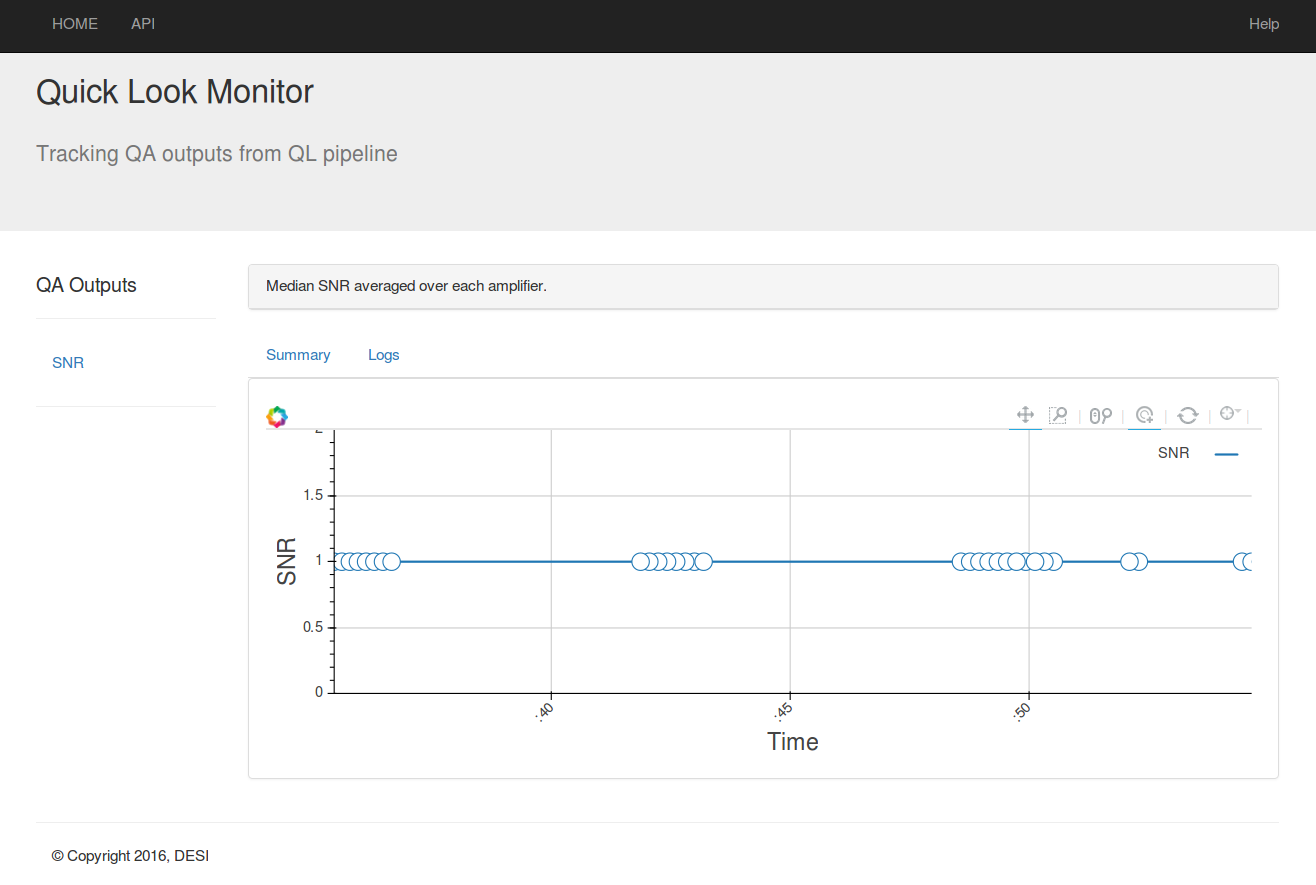
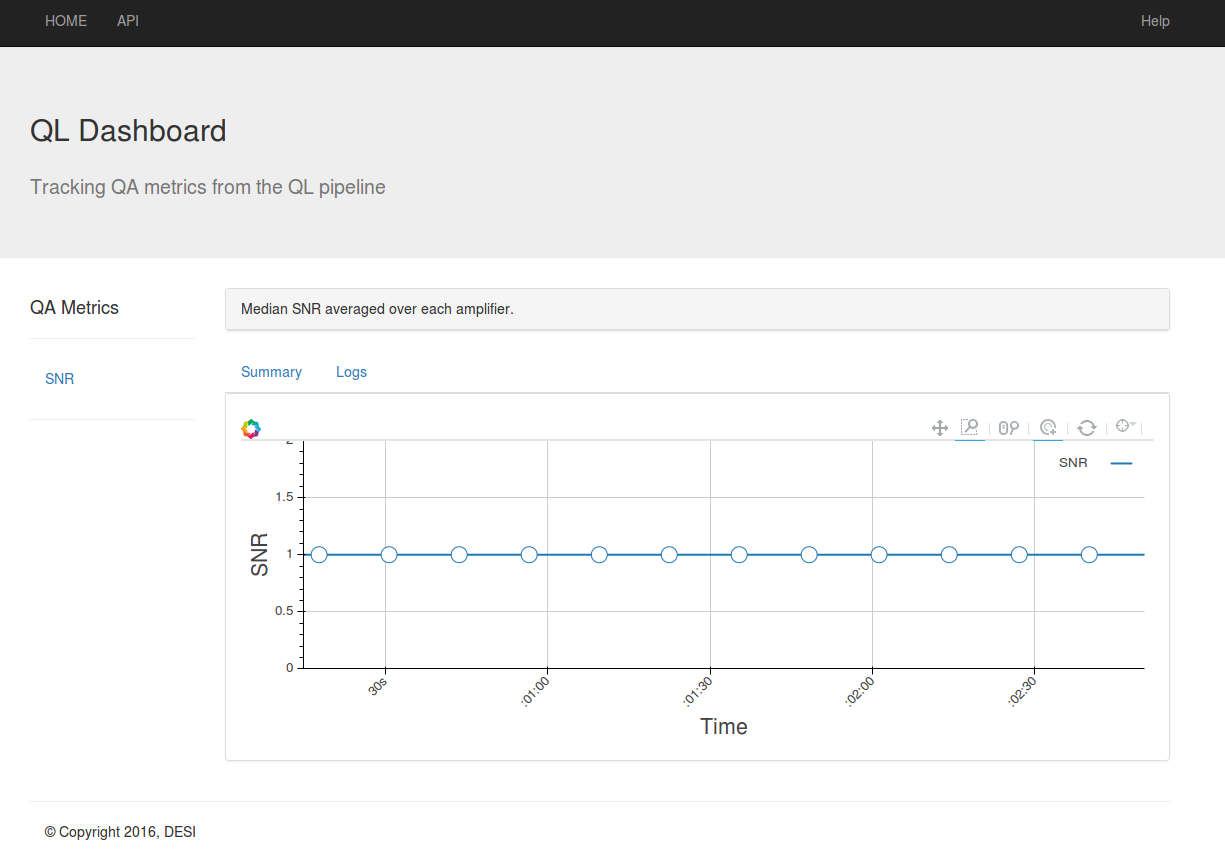
Updated documentation

diff --git a/qlf/dashboard/templates/dashboard/index.html b/qlf/dashboard/templates/dashboard/index.html
@@ -6,8 +6,8 @@
 
 <div class="jumbotron">
     <div class="container">
-        <h2>Quick Look Monitor<h4>
-        <h2><small>Tracking QA outputs from QL pipeline</small></h2>
+        <h2>QL Dashboard<h4>
+        <h2><small>Tracking QA metrics from the QL pipeline</small></h2>
     </div>
 </div>
 
@@ -16,7 +16,7 @@
     <div class="row">
         <div class="col-xs-2">
           <ul class="nav nav-pills nav-stacked">
-              <li role="presentation"><h4>QA Outputs</h4></li>
+              <li role="presentation"><h4>QA Metrics</h4></li>
               <hr>
               {% for module in object_list %}
                 <li role="presentation" >

diff --git a/docs/index.rst b/docs/index.rst
@@ -12,18 +12,19 @@ Angelo Fausti, Alisson Lanot, Luiz N. da Costa
 Introduction
 ^^^^^^^^^^^^
 
-Quick Look Framework (QLF) is designed monitor QA outputs from the DESI Quick Look pipeline and provide
+Quick Look Framework (QLF) is designed display QA metrics from the DESI Quick Look pipeline and provide
 feedback to observers about the quality of the data in real-time.
 
-In development mode, QLF runs locally emulating the Data Online System (DOS) environment to get the input files and
+In development mode, QLF runs locally and emulates the Data Online System (DOS) environment to get the input files and
 metadata required to run the QL pipeline.
 
-See the `README <https://github.com/linea-it/qlf/blob/master/README.md>`_ for instructions on how to clone the repository, install the software dependencies and start the QLF demo.
+See the `README <https://github.com/linea-it/qlf/blob/master/README.md>`_ for instructions on how to clone the repository,
+install the software dependencies and start the QLF demo.
 
 System Design
 ^^^^^^^^^^^^^
 
-The system components are shown below
+The main components of QLF are described below
 
     .. figure:: _static/qlf.png
        :name: qlf
@@ -33,22 +34,25 @@ The system components are shown below
        Figure 1. QLF system components.
 
 
- - **DOS Test Environment**: Emulates DOS enviroment for integration tests during development;
- - **DOS Monitor**: implements** the interface with DOS (or DOS test environment) to access the input files
+ - **DOS Test Environment**: Emulates DOS environment for integration tests during development;
+ - **DOS Monitor**: implements the interface with DOS (or DOS test environment) to access the input files
    and metadata required to run the QL pipeline;
  - **QLF App**: orchestrates the execution of the QL pipeline, prepare input data and configuration, launches the QL pipeline and store relevant information in the QLF database for display in the dashoard;
  - **QL pipeline**: implemented independently of the QLF, QL pipeline communicates with the QLF framework
    through the QLF API;
- - **Dashboard**: web pages for the visualization of the results.
+ - **Dashboard**: web pages for display the QA metrics.
+
+
+TODO: include description of the dataflow
 
 
 Implementation phases
 ^^^^^^^^^^^^^^^^^^^^^
 
- - **QLF v0.1**: demonstration of QLF technology stack and main concepts. In this initial version QLF produces a scalar metric (e.g. Median SNR), it stores this value and job information in the database and display the results in a web page.
- - **QLF v0.2**: first integration with QL pipeline, using simulated data and processing one ccd, still display aggregated metrics but includes a first implementation of the DOS Test Environment.
- - **QLF v0.3**: support individual and aggreatted metrics, implement single CCD display, display QL ouput logs in the dashboard
- - **QLF v0.4**: configuration and submission interface for QL
+ - **QLF v0.1**: demonstration of QLF technology stack and main concepts. In this initial version QLF produces a scalar metric (e.g. Median SNR), stores this value and job information in the database and display the result in a web page.
+ - **QLF v0.2**: improvements in the QLF interface to include configuration, monitor and control the pipeline execution
+ - **QLF v0.3**: first integration with QL pipeline, using simulated data and processing one ccd, still display aggregated metrics but includes a first implementation of the DOS Test Environment.
+ - **QLF v0.4**: support individual and aggregated metrics, implement single CCD display
  - **QLF V0.5**: ...
 
 QLF v0.1
@@ -64,7 +68,7 @@ The web dashboard uses `Django <https://www.djangoproject.com/>`_ and the `Bokeh
 QLF database
 ------------
 
-The QLF database keeps information about the QA outputs as well as the pipeline execution.
+The QLF database keeps information about the QA metrics and pipeline execution.
 
     .. figure:: _static/qlfdb.png
        :name: qlfdb
@@ -74,14 +78,14 @@ The QLF database keeps information about the QA outputs as well as the pipeline 
        Figure 2. QLF v0.1 database, showing ``Job``, ``Metric`` and associated ``Measurement`` tables.
 
 
-QA outputs are generically referred as *metrics* here, and are registered in the ``Metric`` table. A metric has ``name``, ``description``, ``condition``
+QA metrics are registered in the ``Metric`` table. A metric has ``name``, ``description``, ``condition``
 and a ``threshold`` that can be used to trigger alerts.
 
-In QLF v0.1,  this table stores just summary information (e.g. median SNR per ccd). We plan to extend the schema in QLF v0.3 to support
+In QLF v0.1,  this table stores just **summary information** (e.g. median SNR per ccd). We plan to extend the schema in QLF v0.4 to support
 individual and aggregated measurements adding the ``Spectrograph``, ``Ccd`` and ``Fiber`` tables in the schema (e.g. SNR of each fiber
-associated to a given CCD and Spetrograph as well as median SNR per CCD or Spectrograph)
+associated to a given CCD and spectrograph as well as median SNR per CCD or Spectrograph)
 
-Each execution of the pipeline is called a *job* and has ``start``, ``end`` time and a ``status``.
+Each execution of the pipeline is registered in the ``Job`` table and has ``start``, ``end`` time and a ``status``.
 
 In the current schema, each job can perform *N* measurements and each measurement is associated to a metric.
 
@@ -115,6 +119,9 @@ A typical call to the QLF API looks like:
     >>> response.status_code
     201
 
+the QLF daemon is implemented in `bin/qlf.py <https://github.com/linea-it/qlf/blob/master/qlf/bin/qlf.py>`_. In v0.1 it
+sends a constant *SNR=1.0* each 10s to the QLF API.
+
 .. note::
    In development mode the API can be reached at http://localhost:8000/dashboard/api with user=nobody and password=nobody
 
@@ -122,18 +129,18 @@ A typical call to the QLF API looks like:
 Visualization
 -------------
 
-In QLF v0.1, we integrated Django and the Bokeh python library, and demonstrate this integration with a dashboard
-that lists QA outputs registered in the QLF database (e.g Median SNR) and present an interactive time series plot
-showing the values measured by each execution of the QL pipeline (in QLF v0.1 this is a constant value)
+For QLF v0.1 we integrated the Django framework and the Bokeh python library. In order to demonstrate this integration we implemented a dashboard that lists QA metrics registered in the QLF database (e.g Median SNR) and present an interactive time series plot
+showing the values measured by each execution of the QL pipeline. Once QLF is integrated with the QL pipeline and we have single CCD processing in place we plan
+to extend the dashboard based on requirements from the collaboration.
 
-A screenshot of the dashboard interface is shown below:
+A screenshot of the current dashboard interface is shown below:
 
     .. figure:: _static/dashboard.png
        :name: dashboard
        :target: _static/dashboard.png
        :alt: QLF v0.1 dashboard
 
-       Figure 2. QLF v0.1 dashboard, listing QA Outputs and a time series plot.
+       Figure 2. QLF v0.1 dashboard, listing QA netrics and a time series plot.
 
 
 References
